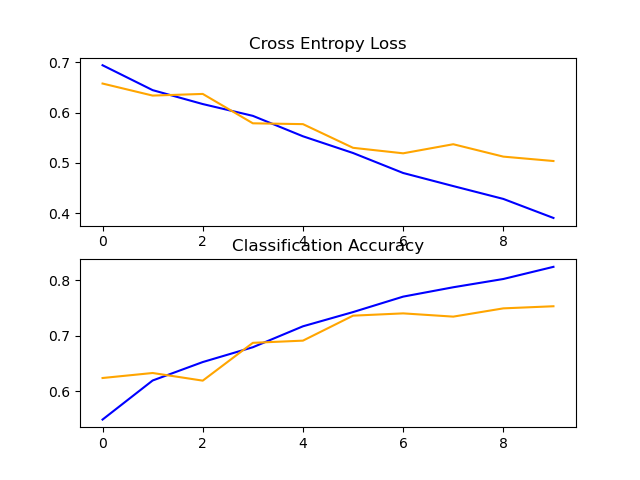
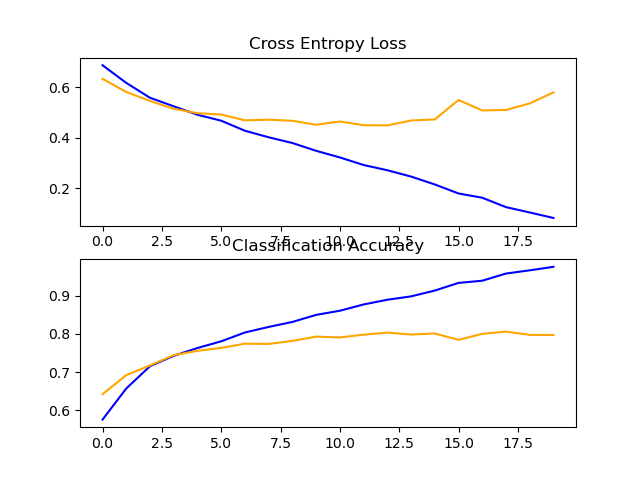
Trained base model using 3 block VGG

diff --git a/catdog.py b/catdog.py
@@ -10,12 +10,14 @@ from keras.layers import Flatten
 from keras.optimizers import SGD
 from keras.preprocessing.image import ImageDataGenerator
 
-# define cnn model
+# define cnn model, 3 block VGG
 def define_model():
 	model = Sequential()
 	model.add(Conv2D(32, (3, 3), activation='relu', kernel_initializer='he_uniform', padding='same', input_shape=(200, 200, 3)))
 	model.add(MaxPooling2D((2, 2)))
 	model.add(Conv2D(64, (3, 3), activation='relu', kernel_initializer='he_uniform', padding='same'))
+	model.add(MaxPooling2D((2, 2)))
+	model.add(Conv2D(128, (3, 3), activation='relu', kernel_initializer='he_uniform', padding='same'))
 	model.add(MaxPooling2D((2, 2)))
 	model.add(Flatten())
 	model.add(Dense(128, activation='relu', kernel_initializer='he_uniform'))
@@ -55,7 +57,7 @@ def run_test_harness():
 		class_mode='binary', batch_size=64, target_size=(200, 200))
 	# fit model
 	history = model.fit_generator(train_it, steps_per_epoch=len(train_it),
-		validation_data=test_it, validation_steps=len(test_it), epochs=10, verbose=0)
+		validation_data=test_it, validation_steps=len(test_it), epochs=20, verbose=0)
 	# evaluate model
 	_, acc = model.evaluate_generator(test_it, steps=len(test_it), verbose=0)
 	print('> %.3f' % (acc * 100.0))
